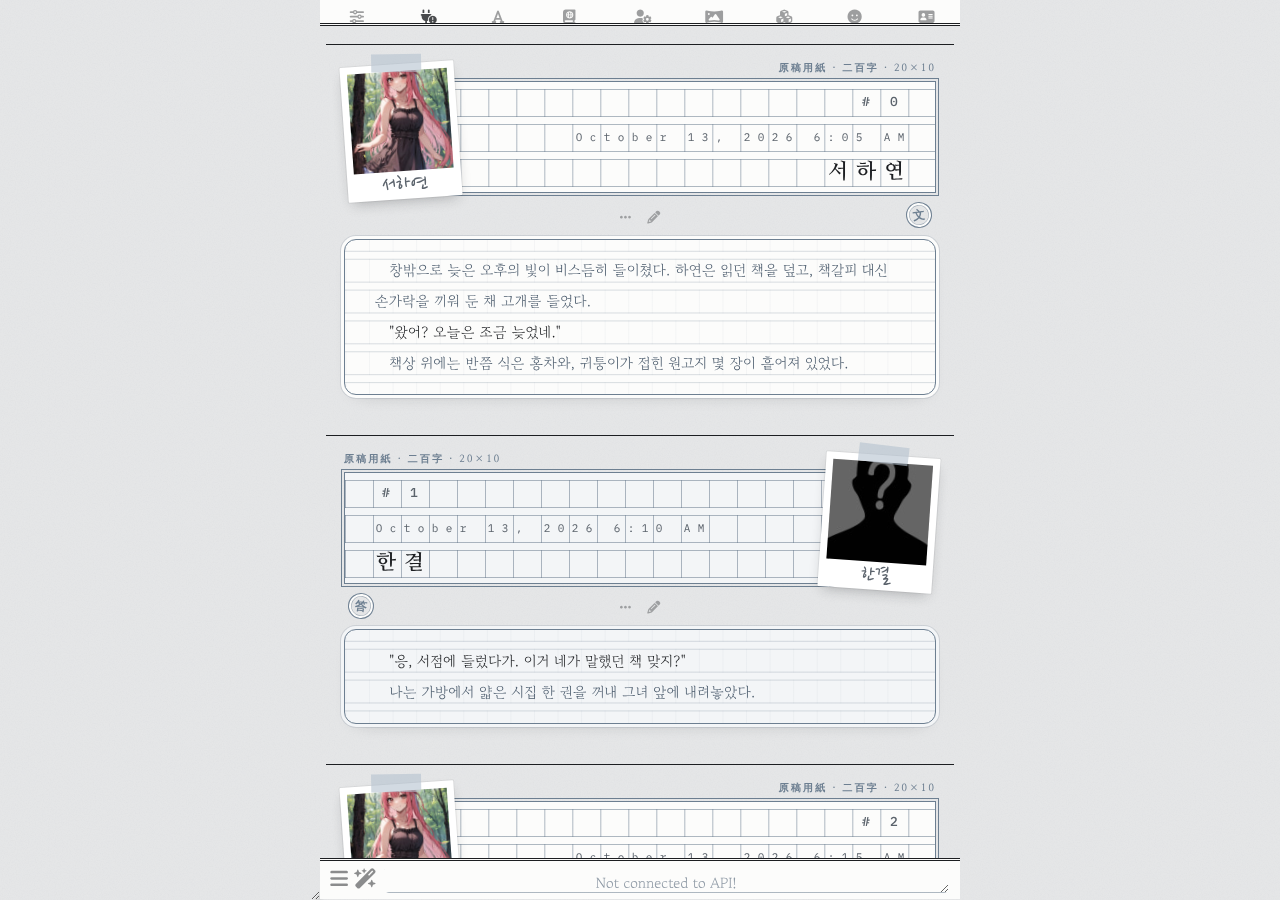
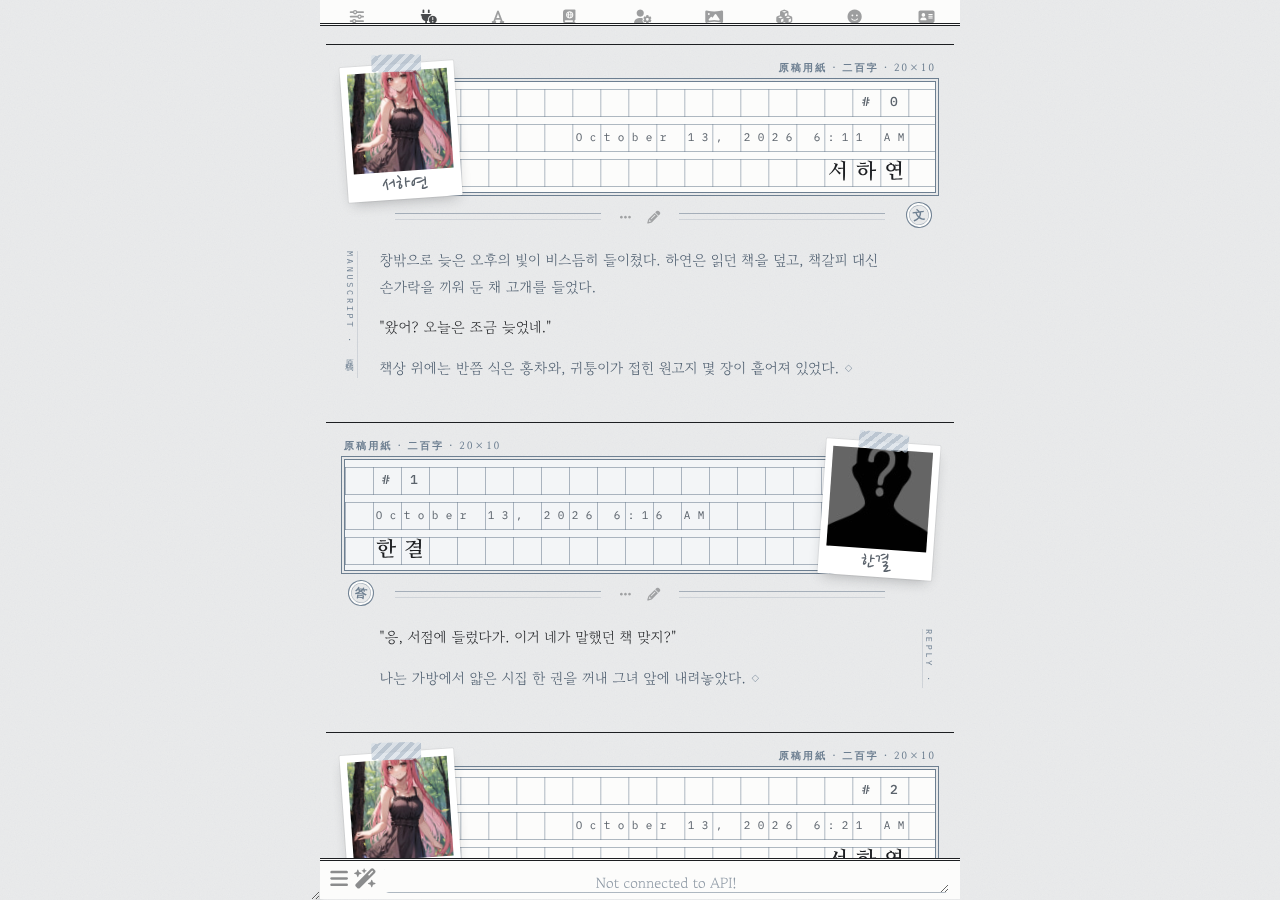
Wongoji: frameless body text and more ornament
- Body text sits directly on the paper: no frame, no manuscript grid
- Striped washi tape, double-rule divider around message buttons,
  vertical spine label beside the body, end mark after the last
  paragraph, large opening quote mark on epigraph blockquotes

Claude-Session: https://claude.ai/code/session_01VxNZVdN99GR1yFwUVAN4mT

diff --git a/src/wongoji.css b/src/wongoji.css
@@ -9,7 +9,7 @@
 
 :root {
     /* 종이와 먹 — 흑백 */
-    --wg-desk: #e7e8e9;           /* 책상 (배경) */
+    --wg-desk: #ebeced;           /* 책상 (배경) */
     --wg-paper: #fcfcfb;          /* 원고지 종이 */
     --wg-paper-user: #f3f5f7;     /* 유저 원고지 — 아주 옅은 청회색 */
     --wg-ink: #1c1e21;            /* 먹 */
@@ -22,10 +22,6 @@
     --wg-print-line: rgba(109, 127, 145, 0.55);
     --wg-print-faint: rgba(109, 127, 145, 0.20);
     --wg-wash: #e4e9ee;           /* 청회색 바탕 (인용, 머리띠) */
-
-    /* 본문 칸. 세로 칸선을 없애려면 transparent */
-    --wg-body-col: rgba(109, 127, 145, 0.06);
-    --wg-body-row: rgba(109, 127, 145, 0.26);
 
     /* 강조 */
     --wg-quote: #1c1e21;          /* “대사” — 먹 */
@@ -44,11 +40,15 @@
     --wg-hand: 'Nanum Pen Script', 'Gowun Batang', cursive;
     --wg-mono: 'IBM Plex Mono', 'D2Coding', ui-monospace, monospace;
 
-    /* 본문: 글자 크기, 원고지 칸과 줄 사이 틈 */
+    /* 본문: 글자 크기와 행간 */
     --wg-text: calc(var(--mainFontSize) * 0.97);
-    --wg-body-cell: calc(var(--wg-text) * 1.62);
-    --wg-body-gap: calc(var(--wg-text) * 0.5);
-    --wg-lh: calc(var(--wg-body-cell) + var(--wg-body-gap));
+    --wg-lh: calc(var(--wg-text) * 1.85);
+    --wg-measure: clamp(14px, 6%, 44px);  /* 본문 좌우 여백 */
+
+    /* 꾸밈 글자 */
+    --wg-spine-char: 'MANUSCRIPT \00B7  原稿';
+    --wg-spine-user: 'REPLY \00B7  答書';
+    --wg-endmark: '\25C7';
 
     /* 머리 원고지 띠 */
     --wg-cell: 28px;              /* 칸 */
@@ -271,7 +271,11 @@ body {
     width: 44%;
     height: calc(var(--wg-frame) * 2.6);
     transform: translateX(-50%) rotate(3deg);
-    background: rgba(180, 193, 206, 0.6);
+    background: repeating-linear-gradient(-45deg,
+        rgba(170, 184, 199, 0.72) 0 4px,
+        rgba(214, 222, 230, 0.72) 4px 8px);
+    clip-path: polygon(0 8%, 6% 0, 12% 10%, 18% 0, 82% 0, 88% 10%, 94% 0, 100% 8%,
+        100% 92%, 94% 100%, 88% 90%, 82% 100%, 18% 100%, 12% 90%, 6% 100%, 0 92%);
     z-index: 1;
 }
 
@@ -457,14 +461,30 @@ body {
     height: 0;
 }
 
-/* 메시지 버튼 — 띠 아래 가운데 */
+/* 메시지 버튼 — 띠와 본문 사이, 양옆으로 가는 괘선을 그은 구분 줄 */
 #chat .mes .mes_buttons,
 #chat .mes .mes_edit_buttons {
     justify-content: center;
-    align-self: center;
+    align-items: center;
+    align-self: stretch;
     float: none;
     gap: 2px;
-    margin: 0 0 10px;
+    /* 도장 자리를 비워 둡니다 */
+    margin: 0 max(var(--wg-measure), 40px) 16px;
+    overflow: visible;
+}
+
+#chat .mes .mes_buttons::before,
+#chat .mes .mes_buttons::after,
+#chat .mes .mes_edit_buttons::before,
+#chat .mes .mes_edit_buttons::after {
+    content: '';
+    flex: 1 1 0;
+    min-width: 12px;
+    height: 5px;
+    margin: 0 10px;
+    border-top: 1px solid var(--wg-print-line);
+    border-bottom: 1px solid var(--wg-print-faint);
 }
 
 #chat .mes .mes_button,
@@ -504,28 +524,12 @@ body {
    ---------------------------------------------------------------------------- */
 
 #chat .mes .mes_text {
-    --wg-shift: calc(var(--wg-body-gap) / -2);
     position: relative;
     margin: 0;
-    padding: calc(var(--wg-lh) * 0.5) clamp(18px, 5%, 34px);
-    background-color: var(--wg-paper);
-    background-image:
-        linear-gradient(to bottom,
-            transparent var(--wg-body-gap),
-            var(--wg-body-row) var(--wg-body-gap), var(--wg-body-row) calc(var(--wg-body-gap) + 1px),
-            transparent calc(var(--wg-body-gap) + 1px), transparent calc(var(--wg-lh) - 1px),
-            var(--wg-body-row) calc(var(--wg-lh) - 1px)),
-        linear-gradient(to bottom, var(--wg-paper) var(--wg-body-gap), transparent var(--wg-body-gap)),
-        linear-gradient(to right, var(--wg-body-col) 1px, transparent 1px);
-    background-size: 100% var(--wg-lh), 100% var(--wg-lh), var(--wg-body-cell) 100%;
-    background-position:
-        0 calc(var(--wg-lh) * 0.5 + var(--wg-shift)),
-        0 calc(var(--wg-lh) * 0.5 + var(--wg-shift)),
-        center 0;
-    background-attachment: local;
-    border: 1px solid var(--wg-print);
-    border-radius: 12px;
-    box-shadow: 0 0 0 3px var(--wg-paper), 0 0 0 4px var(--wg-print-faint), 0 8px 18px -14px rgba(28, 30, 33, 0.45);
+    padding: 2px var(--wg-measure) 0;
+    background: none;
+    border: 0;
+    box-shadow: none;
     font-family: var(--wg-serif);
     font-size: var(--wg-text);
     font-weight: 400;
@@ -544,10 +548,23 @@ body {
     display: none;
 }
 
-/* 원고지 쓰기: 문단은 한 칸 들여 쓰고, 줄을 비우지 않습니다 */
 #chat .mes .mes_text p {
-    margin: 0;
-    text-indent: 1em;
+    margin: 0 0 0.95em;
+}
+
+#chat .mes .mes_text > :last-child {
+    margin-bottom: 0;
+}
+
+/* 글 끝 표시 — 잡지 기사의 마침 기호처럼 */
+#chat .mes .mes_text > p:last-child::after {
+    content: var(--wg-endmark);
+    display: inline-block;
+    margin-left: 0.6em;
+    font-size: 0.62em;
+    line-height: 1;
+    vertical-align: 0.2em;
+    color: var(--wg-print);
 }
 
 #chat .mes .mes_text br {
@@ -585,7 +602,7 @@ body {
 #chat .mes .mes_text hr {
     border: 0;
     height: var(--wg-lh);
-    margin: 0;
+    margin: 0.4em 0 0.9em;
     opacity: 1;
     background: none;
 }
@@ -601,38 +618,29 @@ body {
 
 /* 인용 — 책 뒤표지의 제사(題辭)처럼 */
 #chat .mes .mes_text blockquote {
-    /* 위아래 합이 정확히 한 줄이 되도록 — 원고지 줄 박자를 지킵니다 */
-    margin: 0 clamp(0px, 4%, 24px);
-    padding: calc(var(--wg-lh) * 0.5) 1.4em;
+    margin: 0.4em clamp(0px, 4%, 24px) 1.2em;
+    padding: 0.9em 1.4em;
     background: var(--wg-wash);
     border: 0;
     border-radius: 2px;
     color: var(--wg-ink);
     text-align: center;
     font-family: var(--wg-title);
-    line-height: var(--wg-lh);
-}
-
-#chat .mes .mes_text blockquote p {
-    text-indent: 0;
-}
-
-#chat .mes .mes_text blockquote::before,
-#chat .mes .mes_text blockquote::after {
-    display: inline;
-    color: var(--wg-print);
+    line-height: 1.9;
 }
 
 #chat .mes .mes_text blockquote::before {
-    content: '“';
+    content: '\201C';
+    display: block;
+    height: 0.55em;
+    font-family: var(--wg-title);
+    font-size: 2.2em;
+    line-height: 1;
+    color: var(--wg-print);
 }
 
-#chat .mes .mes_text blockquote::after {
-    content: '”';
-}
-
-#chat .mes .mes_text blockquote > p {
-    display: inline;
+#chat .mes .mes_text blockquote p {
+    margin: 0;
 }
 
 /* 장 제목 */
@@ -643,7 +651,7 @@ body {
     font-family: var(--wg-title);
     font-weight: 700;
     line-height: var(--wg-lh);
-    margin: 0;
+    margin: 0.4em 0 0.8em;
     font-size: 1.05em;
     text-align: center;
     letter-spacing: 0.2em;
@@ -658,10 +666,6 @@ body {
 #chat .mes .mes_text ol {
     margin: 0;
     padding-left: 2em;
-}
-
-#chat .mes .mes_text li p {
-    text-indent: 0;
 }
 
 #chat .mes .mes_text code {
@@ -703,7 +707,6 @@ body {
 #chat .mes .mes_text td {
     border: 1px solid var(--wg-print-line);
     padding: 3px 10px;
-    text-indent: 0;
 }
 
 #chat .mes .mes_text a {
@@ -715,14 +718,11 @@ body {
 /* 편집 중 — 카드는 비우고 입력창이 원고가 됩니다 */
 #chat .mes .mes_text:has(.edit_textarea) {
     padding: 0;
-    background: none;
-    border: 0;
-    box-shadow: none;
 }
 
 #chat .mes .edit_textarea {
     margin: 0;
-    padding: calc(var(--wg-lh) * 0.4) clamp(18px, 5%, 34px);
+    padding: 12px var(--wg-measure);
     background: var(--wg-paper);
     border: 1px solid var(--wg-ink);
     border-radius: 12px;
@@ -793,6 +793,45 @@ body {
     height: auto;
 }
 
+/* 책등 — 본문 옆에 세로로 인쇄된 표기 (넓은 화면) */
+#chat .mes .mes_block::after {
+    content: var(--wg-spine-char);
+    position: absolute;
+    top: calc(var(--wg-pad) + var(--wg-band-h) + 58px);
+    bottom: 44px;
+    left: var(--wg-side);
+    width: 14px;
+    box-sizing: border-box;
+    border-right: 1px solid var(--wg-print-faint);
+    writing-mode: vertical-rl;
+    font-family: var(--wg-mono);
+    font-size: 8.5px;
+    letter-spacing: 0.32em;
+    line-height: 14px;
+    color: var(--wg-print);
+    white-space: nowrap;
+    overflow: hidden;
+    pointer-events: none;
+}
+
+#chat .mes[is_user="true"] .mes_block::after {
+    content: var(--wg-spine-user);
+    left: auto;
+    right: var(--wg-side);
+    border-right: 0;
+    border-left: 1px solid var(--wg-print-faint);
+}
+
+#chat .mes:has(.edit_textarea) .mes_block::after {
+    display: none;
+}
+
+@media (max-width: 600px) {
+    #chat .mes .mes_block::after {
+        display: none;
+    }
+}
+
 /* ----------------------------------------------------------------------------
    유저 메시지 — 좌우를 뒤집어 맞은편 페이지처럼
    ---------------------------------------------------------------------------- */
@@ -859,20 +898,8 @@ body {
     left: calc(var(--wg-band-far) + var(--wg-cell));
 }
 
-#chat .mes[is_user="true"] .mes_text {
-    background-color: var(--wg-paper-user);
-    box-shadow: 0 0 0 3px var(--wg-paper-user), 0 0 0 4px var(--wg-print-faint), 0 8px 18px -14px rgba(28, 30, 33, 0.45);
-}
-
-#chat .mes[is_user="true"] .mes_text {
-    --wg-paper: var(--wg-paper-user);
-}
-
 /* 시스템 메시지 */
 #chat .mes[is_system="true"] .mes_text {
-    background-image: none;
-    border-style: dashed;
-    box-shadow: none;
     color: var(--wg-ink-soft);
 }
 

diff --git a/README.md b/README.md
@@ -13,15 +13,14 @@ SillyTavern UI 테마입니다. 흰 종이와 먹, 청회색으로 인쇄된 원
   - 둘째 줄: 날짜를 원고지 규칙대로 숫자·영문 두 자에 한 칸씩 (좁은 화면에서는 세 자)
   - 셋째 줄: 이름을 한 칸에 한 글자씩. 모두 끝 한 칸을 비우고 적습니다.
   - 띠 위 여백에는 `原稿用紙 · 二百字 · 20×10`이 인쇄되어 있고, 띠 끝 아래에는 원형 도장(캐릭터 `文`, 유저 `答`)이 찍힙니다.
-- **폴라로이드**: 아바타는 컬러 폴라로이드로 띠 위에 비스듬히 겹쳐 놓이고, 마스킹 테이프와 손글씨 이름이 붙습니다.
-- **원고 본문**: 본문도 원고지 줄 위에 쓰입니다. 글줄이 칸 줄 가운데에 앉고, 줄 사이 틈이 행간이 됩니다. 문단은 원고지 쓰기처럼 한 칸 들여 씁니다.
-- **문장 표현**: 대사와 본문은 먹색, 지문과 속마음은 청회색입니다. 인용(`>`)은 책 뒤표지의 제사(題辭)처럼 가운데 정렬된 청회색 상자로, 장면 전환(`---`)은 `＊`로 보입니다.
+- **폴라로이드**: 아바타는 컬러 폴라로이드로 띠 위에 비스듬히 겹쳐 놓이고, 줄무늬 마스킹 테이프와 손글씨 이름이 붙습니다.
+- **구분 줄**: 띠와 본문 사이에 메시지 버튼을 두고, 그 양옆으로 가는 이중 괘선을 그었습니다.
+- **본문**: 가독성을 위해 틀과 칸 배경 없이 종이 위에 바로 씁니다. 넓은 화면에서는 본문 옆에 책등처럼 세로 표기(`MANUSCRIPT · 原稿`, `REPLY · 答書`)가 붙고, 글 끝에는 마침 기호 `◇`가 찍힙니다.
+- **문장 표현**: 대사와 본문은 먹색, 지문과 속마음은 청회색입니다. 인용(`>`)은 책 뒤표지의 제사(題辭)처럼 큰 따옴표가 달린 가운데 정렬 청회색 상자로, 장면 전환(`---`)은 `＊`로 보입니다.
 - **색**: 화면 요소는 흑백과 청회색만 씁니다(아바타 사진은 원래 색 그대로). 유저 원고지는 아주 옅은 청회색이고, 그림자와 블러는 없습니다.
 - **상단 메뉴 · 입력창**: 아이콘을 작게 줄이고 책 머리말처럼 이중 괘선으로 구분했습니다. 모바일에서도 입력창 아이콘이 PC처럼 한 줄로 놓입니다.
 
 서체(Google Fonts): 고운바탕(본문), 나눔명조(이름·제목·인용), 나눔손글씨 펜(폴라로이드), IBM Plex Mono(번호·날짜).
-
-> 한글 본문 서체는 글자마다 너비가 달라(문장부호와 띄어쓰기가 특히 좁습니다) CSS만으로는 본문을 한 칸에 한 글자씩 맞출 수 없습니다. 그래서 본문은 칸 줄의 리듬만 따르고 세로 칸선은 아주 옅게 깔았습니다. 칸에 정확히 맞추는 것은 이름과 번호뿐입니다.
 
 ## 설치
 
@@ -40,12 +39,12 @@ SillyTavern UI 테마입니다. 흰 종이와 먹, 청회색으로 인쇄된 원
 | `--wg-desk`, `--wg-paper`, `--wg-paper-user` | 배경, 원고지 종이, 유저 원고지 색 |
 | `--wg-print`, `--wg-print-line` | 원고지 인쇄색(청회색) |
 | `--wg-quote`, `--wg-em` | 대사와 지문 색 |
-| `--wg-body-col` | 본문 세로 칸선. `transparent`로 두면 가로 줄만 남습니다 |
 | `--wg-photo-filter` | 폴라로이드 필터. `grayscale(1)`로 두면 흑백 사진이 됩니다 |
 | `--wg-stamp-char`, `--wg-stamp-user` | 원형 도장 글자 |
 | `--wg-ts-per` | 날짜를 한 칸에 몇 자씩 적을지 |
 | `--wg-cell`, `--wg-gap`, `--wg-name-size` | 머리 원고지 칸, 줄 사이 틈, 이름 글자 크기 |
-| `--wg-text`, `--wg-body-cell`, `--wg-body-gap` | 본문 글자 크기, 본문 칸 높이, 줄 사이 틈. 설정의 Font Scale도 함께 반영됩니다 |
+| `--wg-text`, `--wg-lh`, `--wg-measure` | 본문 글자 크기, 행간, 좌우 여백. 설정의 Font Scale도 함께 반영됩니다 |
+| `--wg-spine-char`, `--wg-spine-user`, `--wg-endmark` | 책등 세로 표기와 글 끝 기호 |
 | `--topBarIconSize`, `--bottomFormIconSize` | 상단 메뉴 · 입력창 아이콘 크기 |
 
 ## 개발
